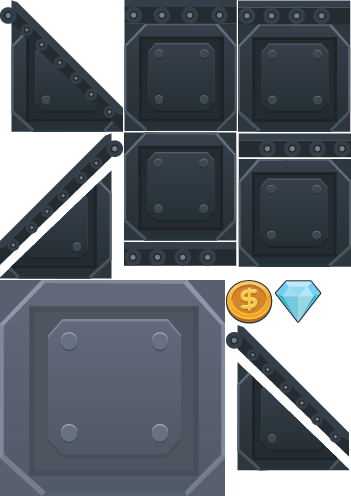
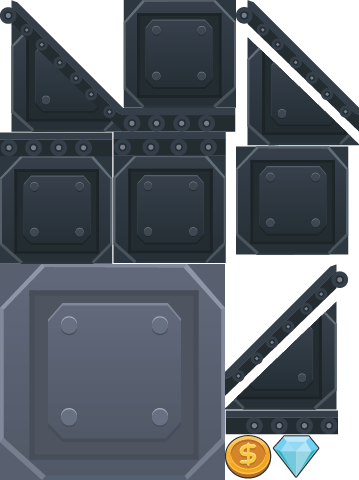
Added LevelIntro, with background and paralax

diff --git a/game/states/Intro.ts b/game/states/Intro.ts
@@ -18,13 +18,21 @@ module Superhero {
 
         hero: Superhero.Hero;
         background: Phaser.TileSprite;
+
         paralax1: Phaser.TileSprite;
-        //ui: Superhero.UI;
+        paralax2: Phaser.TileSprite;
+        paralax3: Phaser.TileSprite;
+        paralax4: Phaser.TileSprite;
+        paralax5: Phaser.TileSprite;
+
+
+        debug: Superhero.Debug;
+        ui: Superhero.UI;
         theme: Phaser.Sound;
         obstacleManager: Obstacles.ObstacleManager;
         enemyManager: Superhero.EnemyManager;
         collectableManager: Collectables.CollectableManager;
-
+        levelID: string = "level1";
 
         preload () {
 
@@ -41,6 +49,7 @@ module Superhero {
             //this.startMusic();
             this.setEnemyManager();
 
+            this.debug = new Debug(this.game);
         }
 
         update () {
@@ -52,6 +61,7 @@ module Superhero {
 
             this.enemyManager.update();
             this.ui.update();
+            //this.debug.update();
 
             //Obstacles
             this.obstacleManager.update();
@@ -64,22 +74,34 @@ module Superhero {
 
 
         setBaseStage():void {
-
-            // Setup paralax layer
             this.paralax1 = this.game.add.tileSprite(0,0,1800,600, 'starfield');
-            this.paralax1.autoScroll(-100,0);
+            this.paralax1.autoScroll(-10,0);
+
+            this.paralax2 = this.game.add.tileSprite(0,0,3600,600, 'planets');
+            this.paralax2.autoScroll(-30,0);
+
+            //this.paralax3 = this.game.add.tileSprite(0,0,3600,600, 'meteos');
+            //this.paralax3.autoScroll(-400,0);s
+
+
+            this.paralax4 = this.game.add.tileSprite(0,0,this.world.width,this.world.height, 'steeltile');
+            this.paralax4.autoScroll(-200,0);
+
+
+            this.paralax5 = this.game.add.tileSprite(0,this.world.height-80,this.world.width,this.world.height-80, 'steel', 'floor_c');
+            this.paralax5.autoScroll(-200,0);
 
             //Setup Obstacle
             this.obstacleManager = new Obstacles.ObstacleManager(this.game, 800);
             //this.obstacleManager.addObstacleToPool(Obstacles.ObstacleType.WALL);
-            this.obstacleManager.addObstacleToPool(Obstacles.ObstacleType.METEORITE_SHOWER);
+            //this.obstacleManager.addObstacleToPool(Obstacles.ObstacleType.METEORITE_SHOWER);
 
             this.initCollectables();
         }
 
         private  setEnemyManager(): void {
             // Setup enemy manager
-            //this.enemyManager = new Superhero.EnemyManager(this.game, this.levelID);
+            this.enemyManager = new Superhero.EnemyManager(this.game, this.levelID);
         }
 
         initCollectables(): void {
@@ -100,7 +122,9 @@ module Superhero {
             (<Superhero.Game> this.game).gamepad = new Gamepads.GamePad(this.game, Gamepads.GamepadType.STICK_BUTTON, Gamepads.ButtonPadType.FOUR_FAN);
             (<Superhero.Game> this.game).gamepad.buttonPad.button1.type = Gamepads.ButtonType.CUSTOM;
             (<Superhero.Game> this.game).gamepad.buttonPad.button2.type = Gamepads.ButtonType.CUSTOM;
+            (<Superhero.Game> this.game).gamepad.buttonPad.button2.enableCooldown(30);
             (<Superhero.Game> this.game).gamepad.buttonPad.button3.type = Gamepads.ButtonType.CUSTOM;
+            (<Superhero.Game> this.game).gamepad.buttonPad.button3.enableCooldown(10);
             (<Superhero.Game> this.game).gamepad.buttonPad.button4.type = Gamepads.ButtonType.CUSTOM;
             (<Superhero.Game> this.game).gamepad.stick1.settings.topSpeed = 600;
         }

diff --git a/game/character/Character.ts b/game/character/Character.ts
@@ -427,6 +427,7 @@ module Superhero {
          * @param {any}           object An instance of the collided object
          */
         die (char:Phaser.Sprite, object?:any) {
+            if (object) object.kill();
             var elapsedTime = this.game.time.elapsedSince(this.dieTimer);
             if (elapsedTime < 100) return;
             this.dieTimer = this.game.time.time;
@@ -434,8 +435,6 @@ module Superhero {
             if((<Superhero.Game>this.game).conf.PLAYERISIMMORTAL && char.key == "hero1") {
                 return;
             }
-
-            if (object) object.kill();
 
             if (this.shield > 0) {
                 this.shield -= 1;
@@ -448,7 +447,6 @@ module Superhero {
                 this.dieReset();
                 return
             }
-
 
             this.lives -= 1;
             char.alive = false;
@@ -471,7 +469,6 @@ module Superhero {
                 this.sprite.tint = 0xFFFFFF;
             }.bind(this), 150);
         }
-
 
         /**
          * Callback method when the character collides with a collectable object

diff --git a/game/states/Preloader.ts b/game/states/Preloader.ts
@@ -31,10 +31,15 @@ module Superhero {
             this.game.load.atlasJSONHash('pups', '/assets/pups.png', '/assets/pups.json');
             this.game.load.atlasJSONHash('meteors', '/assets/meteors.png', '/assets/meteors.json');
             this.game.load.atlasJSONHash('bullets', '/assets/bullets.png', '/assets/bullets.json');
+            this.game.load.atlasJSONHash('steel', '/assets/steel.png', '/assets/steel.json');
 
             //Single Images
             this.game.load.image('fuelbar', '/assets/fuel.png');
             this.game.load.image('starfield', '/assets/starfield.png');
+            this.game.load.image('steeltile', '/assets/steeltile.png');
+            this.game.load.image('planets', '/assets/planets.png');
+            this.game.load.image('meteos', '/assets/meteos.png');
+            this.game.load.image('windowMask', '/assets/windowMask.png');
             this.game.load.image('puinfo', '/assets/PUInfo.png');
 
 

diff --git a/game/core/Game.ts b/game/core/Game.ts
@@ -3,6 +3,7 @@
 /// <reference path="../states/Preloader.ts"/>
 /// <reference path="../states/Menu.ts"/>
 /// <reference path="../states/Level1.ts"/>
+/// <reference path="../states/Intro.ts"/>
 /// <reference path="../config/Config.ts"/>
 /// <reference path="../plugins/GamePad.ts"/>
 /// <reference path="../../lib/jquery.d.ts" />
@@ -34,6 +35,7 @@ module Superhero{
             this.state.add('Preloader', Preloader, false);
             this.state.add('Menu', Menu, false);
             this.state.add('Level1', Level1, false);
+            this.state.add('Intro', Intro, false);
 
             this.state.start('Boot');
         }

diff --git a/game/obstacles/Obstacles.ts b/game/obstacles/Obstacles.ts
@@ -276,7 +276,11 @@ module Obstacles {
                     stone.reset(randX,randY[i]);
                 }
                 stone.body.velocity.x = speed * this.game.rnd.realInRange(1,3);
+                stone.body.velocity.y = this.game.rnd.integerInRange(20,-20);
+                stone.anchor.setTo(0.5,0.5);
+                stone.body.angularVelocity = this.game.rnd.integerInRange(-100,100);
             }
+
 
         }
 

diff --git a/game/ui/UI.ts b/game/ui/UI.ts
@@ -1,7 +1,6 @@
 /**
  * UI Class
  * Wraps the logic to setup and handle the ui
- * @author Daniel Waksman
  */
 
 /// <reference path="../../lib/phaser.d.ts"/>
@@ -64,7 +63,6 @@ module Superhero {
             this.updateLives();
             this.updatePUPIcons();
             this.updateCooldowns();
-            //this.updateCoins();
 
         }
 

diff --git a/game/states/Level1.ts b/game/states/Level1.ts
@@ -176,5 +176,12 @@ module Superhero {
             this.ui.scoreUp(50);
         }
 
+        render() {
+            //this.game.debug.body(this.hero.sprite);
+            //this.obstacleManager.obstacles[0].group.forEach(function(e){
+            //    this.game.debug.body(e);
+            //},this);
+        }
+
     }
 }

diff --git a/game/obstacles/ObstacleManager.ts b/game/obstacles/ObstacleManager.ts
@@ -40,6 +40,7 @@ module Obstacles {
         }
 
         update (): void {
+            if (this.obstacles.length <= 0) return;
             var elapsedSecs = this.game.time.elapsedSecondsSince(this.multiplierTimer);
 
             // Every 20 seconds increment the multiplier
